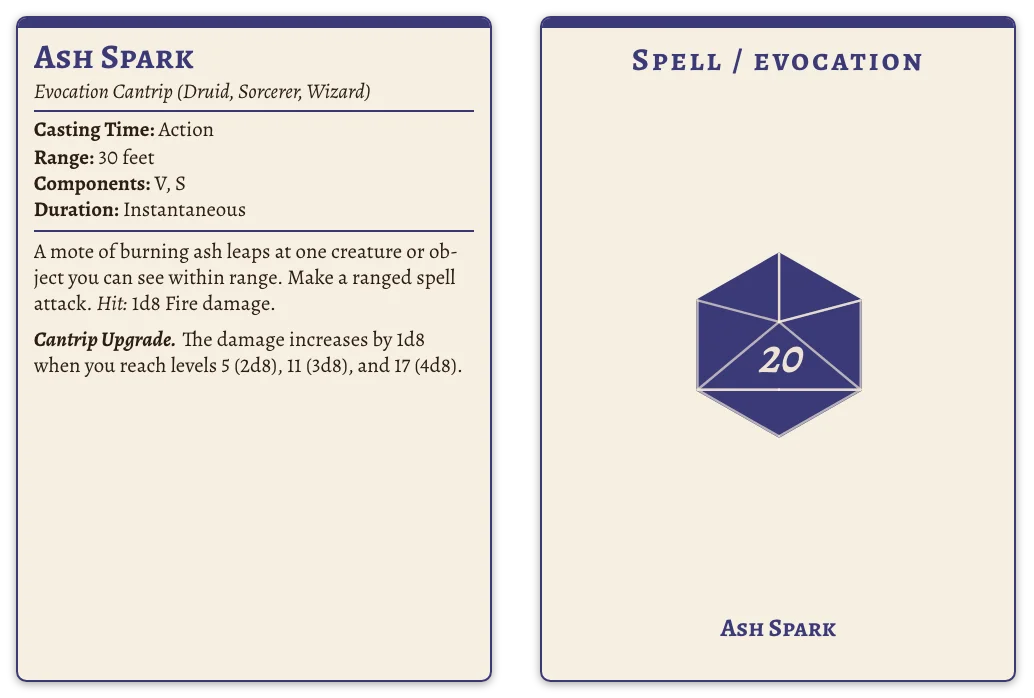
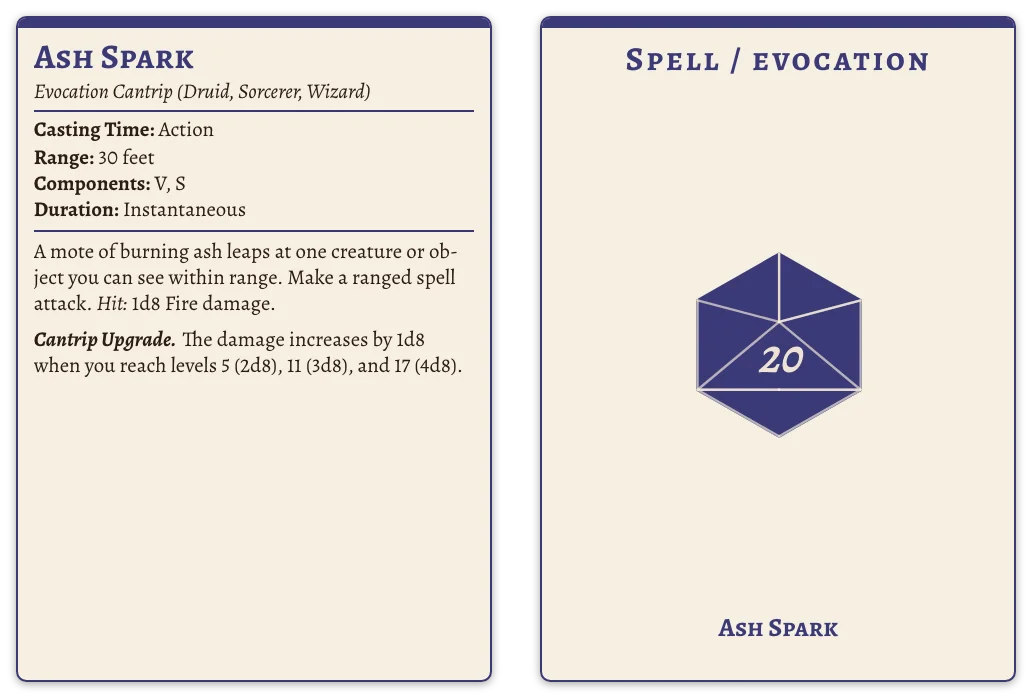
5e_2014, 5e_2024: wrap the back's label and name at full size
The label and the name on the back were title-scaled. A wrapped line
of the display face reaches a pixel or two past its own box, so the
scaler read every second line as overflow and shrank the text until
it fit on one line: the size then followed the length of the text,
and two cards of a deck came out at different sizes. The name sat at
the title floor on every card.

Both now keep their declared size and wrap; a word wider than the line
breaks. Retakes the 5e card pictures.

Changed region(s): [[0.588, 0.0602, 0.8975, 0.1203], [0.6809, 0.8725, 0.8046, 0.9327]]

diff --git a/tests/fixtures/5e_2014/Cinder-Hound.back.html b/tests/fixtures/5e_2014/Cinder-Hound.back.html
@@ -1,9 +1,9 @@
 <div class="card-root card-back dd creature-card creature-back" style="--card-width: 88.9mm; --card-height: 127mm;" lang="en">
   <div class="dd-bar"></div>
-  <div class="dd-back-label"><span class="text-scalable">beast</span></div>
+  <div class="dd-back-label">beast</div>
   <div class="dd-back-picture">
[1 lines of base64/hex data omitted]
   </div>
-  <div class="dd-back-name"><span class="text-scalable">Cinder Hound</span></div>
+  <div class="dd-back-name">Cinder Hound</div>
   <div class="dd-bar"></div>
 </div>

diff --git a/tests/fixtures/5e_2024/Cinder-Hound.back.html b/tests/fixtures/5e_2024/Cinder-Hound.back.html
@@ -1,8 +1,8 @@
 <div class="card-root card-back ff creature-card creature-back" style="--card-width: 88.9mm; --card-height: 127mm;" lang="en">
   <div class="ff-band"></div>
-  <div class="ff-back-label"><span class="text-scalable">Monstrosity</span></div>
+  <div class="ff-back-label">Monstrosity</div>
   <div class="ff-back-picture">
[1 lines of base64/hex data omitted]
   </div>
-  <div class="ff-back-name"><span class="text-scalable">Cinder Hound</span></div>
+  <div class="ff-back-name">Cinder Hound</div>
 </div>

diff --git a/tests/fixtures/5e_2014/Toll-Warden.back.html b/tests/fixtures/5e_2014/Toll-Warden.back.html
@@ -1,9 +1,9 @@
 <div class="card-root card-back dd creature-card creature-back" style="--card-width: 88.9mm; --card-height: 127mm;" lang="en">
   <div class="dd-bar"></div>
-  <div class="dd-back-label"><span class="text-scalable">NPC</span></div>
+  <div class="dd-back-label">NPC</div>
   <div class="dd-back-picture">
[1 lines of base64/hex data omitted]
   </div>
-  <div class="dd-back-name"><span class="text-scalable">Toll Warden</span></div>
+  <div class="dd-back-name">Toll Warden</div>
   <div class="dd-bar"></div>
 </div>

diff --git a/tests/fixtures/5e_2014/Ember-Step.back.html b/tests/fixtures/5e_2014/Ember-Step.back.html
@@ -1,6 +1,6 @@
 <div class="card-root card-back dd generic-card generic-back" style="--card-width: 63mm; --card-height: 88mm;" lang="en">
   <div class="dd-bar"></div>
-  <div class="dd-back-label"><span class="text-scalable">Feature / <span class="dd-back-origin">Pyromancer</span></span></div>
+  <div class="dd-back-label">Feature / <span class="dd-back-origin">Pyromancer</span></div>
   <div class="dd-back-picture">
     <div class="dd-d20"><!-- A twenty-sided die as a flat silhouette: the hexagonal outline of an
      icosahedron seen face-on, its visible facets drawn in the paper
@@ -27,6 +27,6 @@
         fill="rgba(253,241,220,0.92)">20</text>
 </svg></div>
   </div>
-  <div class="dd-back-name"><span class="text-scalable">Ember Step</span></div>
+  <div class="dd-back-name">Ember Step</div>
   <div class="dd-bar"></div>
 </div>

diff --git a/tests/fixtures/5e_2014/Aschezeichen.back.html b/tests/fixtures/5e_2014/Aschezeichen.back.html
@@ -1,6 +1,6 @@
 <div class="card-root card-back dd spell-card spell-back" style="--card-width: 63mm; --card-height: 88mm;" lang="de">
   <div class="dd-bar"></div>
-  <div class="dd-back-label"><span class="text-scalable">Zauber / <span class="dd-back-origin">Erkenntnis</span></span></div>
+  <div class="dd-back-label">Zauber / <span class="dd-back-origin">Erkenntnis</span></div>
   <div class="dd-back-picture">
     <div class="dd-d20"><!-- A twenty-sided die as a flat silhouette: the hexagonal outline of an
      icosahedron seen face-on, its visible facets drawn in the paper
@@ -27,6 +27,6 @@
         fill="rgba(253,241,220,0.92)">20</text>
 </svg></div>
   </div>
-  <div class="dd-back-name"><span class="text-scalable">Aschezeichen</span></div>
+  <div class="dd-back-name">Aschezeichen</div>
   <div class="dd-bar"></div>
 </div>

diff --git a/tests/fixtures/5e_2014/Glutschritt.back.html b/tests/fixtures/5e_2014/Glutschritt.back.html
@@ -1,6 +1,6 @@
 <div class="card-root card-back dd generic-card generic-back" style="--card-width: 63mm; --card-height: 88mm;" lang="de">
   <div class="dd-bar"></div>
-  <div class="dd-back-label"><span class="text-scalable">Merkmal / <span class="dd-back-origin">Pyromant</span></span></div>
+  <div class="dd-back-label">Merkmal / <span class="dd-back-origin">Pyromant</span></div>
   <div class="dd-back-picture">
     <div class="dd-d20"><!-- A twenty-sided die as a flat silhouette: the hexagonal outline of an
      icosahedron seen face-on, its visible facets drawn in the paper
@@ -27,6 +27,6 @@
         fill="rgba(253,241,220,0.92)">20</text>
 </svg></div>
   </div>
-  <div class="dd-back-name"><span class="text-scalable">Glutschritt</span></div>
+  <div class="dd-back-name">Glutschritt</div>
   <div class="dd-bar"></div>
 </div>

diff --git a/tests/fixtures/5e_2014/Ember-Lance.back.html b/tests/fixtures/5e_2014/Ember-Lance.back.html
@@ -1,6 +1,6 @@
 <div class="card-root card-back dd spell-card spell-back" style="--card-width: 63mm; --card-height: 88mm;" lang="en">
   <div class="dd-bar"></div>
-  <div class="dd-back-label"><span class="text-scalable">Spell / <span class="dd-back-origin">evocation</span></span></div>
+  <div class="dd-back-label">Spell / <span class="dd-back-origin">evocation</span></div>
   <div class="dd-back-picture">
     <div class="dd-d20"><!-- A twenty-sided die as a flat silhouette: the hexagonal outline of an
      icosahedron seen face-on, its visible facets drawn in the paper
@@ -27,6 +27,6 @@
         fill="rgba(253,241,220,0.92)">20</text>
 </svg></div>
   </div>
-  <div class="dd-back-name"><span class="text-scalable">Ember Lance</span></div>
+  <div class="dd-back-name">Ember Lance</div>
   <div class="dd-bar"></div>
 </div>

diff --git a/tests/fixtures/5e_2024/Ember-Step.back.html b/tests/fixtures/5e_2024/Ember-Step.back.html
@@ -1,6 +1,6 @@
 <div class="card-root card-back ff generic-card generic-back" style="--card-width: 63mm; --card-height: 88mm;" lang="en">
   <div class="ff-band"></div>
-  <div class="ff-back-label"><span class="text-scalable">Feature / <span class="ff-back-origin">Pyromancer</span></span></div>
+  <div class="ff-back-label">Feature / <span class="ff-back-origin">Pyromancer</span></div>
   <div class="ff-back-picture">
     <div class="ff-d20"><!-- A twenty-sided die as a flat silhouette: the hexagonal outline of an
      icosahedron seen face-on, its visible facets drawn in the paper
@@ -27,5 +27,5 @@
         fill="rgba(253,241,220,0.92)">20</text>
 </svg></div>
   </div>
-  <div class="ff-back-name"><span class="text-scalable">Ember Step</span></div>
+  <div class="ff-back-name">Ember Step</div>
 </div>

diff --git a/tests/fixtures/5e_2024/Aschezeichen.back.html b/tests/fixtures/5e_2024/Aschezeichen.back.html
@@ -1,6 +1,6 @@
 <div class="card-root card-back ff spell-card spell-back" style="--card-width: 63mm; --card-height: 88mm;" lang="de">
   <div class="ff-band"></div>
-  <div class="ff-back-label"><span class="text-scalable">Zauber / <span class="ff-back-origin">Erkenntnis</span></span></div>
+  <div class="ff-back-label">Zauber / <span class="ff-back-origin">Erkenntnis</span></div>
   <div class="ff-back-picture">
     <div class="ff-d20"><!-- A twenty-sided die as a flat silhouette: the hexagonal outline of an
      icosahedron seen face-on, its visible facets drawn in the paper
@@ -27,5 +27,5 @@
         fill="rgba(253,241,220,0.92)">20</text>
 </svg></div>
   </div>
-  <div class="ff-back-name"><span class="text-scalable">Aschezeichen</span></div>
+  <div class="ff-back-name">Aschezeichen</div>
 </div>

diff --git a/tests/fixtures/5e_2024/Ember-Lance.back.html b/tests/fixtures/5e_2024/Ember-Lance.back.html
@@ -1,6 +1,6 @@
 <div class="card-root card-back ff spell-card spell-back" style="--card-width: 63mm; --card-height: 88mm;" lang="en">
   <div class="ff-band"></div>
-  <div class="ff-back-label"><span class="text-scalable">Spell / <span class="ff-back-origin">Evocation</span></span></div>
+  <div class="ff-back-label">Spell / <span class="ff-back-origin">Evocation</span></div>
   <div class="ff-back-picture">
     <div class="ff-d20"><!-- A twenty-sided die as a flat silhouette: the hexagonal outline of an
      icosahedron seen face-on, its visible facets drawn in the paper
@@ -27,5 +27,5 @@
         fill="rgba(253,241,220,0.92)">20</text>
 </svg></div>
   </div>
-  <div class="ff-back-name"><span class="text-scalable">Ember Lance</span></div>
+  <div class="ff-back-name">Ember Lance</div>
 </div>

diff --git a/tests/fixtures/5e_2024/Ash-Spark.back.html b/tests/fixtures/5e_2024/Ash-Spark.back.html
@@ -1,6 +1,6 @@
 <div class="card-root card-back ff spell-card spell-back" style="--card-width: 63mm; --card-height: 88mm;" lang="en">
   <div class="ff-band"></div>
-  <div class="ff-back-label"><span class="text-scalable">Spell / <span class="ff-back-origin">evocation</span></span></div>
+  <div class="ff-back-label">Spell / <span class="ff-back-origin">evocation</span></div>
   <div class="ff-back-picture">
     <div class="ff-d20"><!-- A twenty-sided die as a flat silhouette: the hexagonal outline of an
      icosahedron seen face-on, its visible facets drawn in the paper
@@ -27,5 +27,5 @@
         fill="rgba(253,241,220,0.92)">20</text>
 </svg></div>
   </div>
-  <div class="ff-back-name"><span class="text-scalable">Ash Spark</span></div>
+  <div class="ff-back-name">Ash Spark</div>
 </div>

diff --git a/tests/fixtures/5e_2014/Wardens-Brand.back.html b/tests/fixtures/5e_2014/Wardens-Brand.back.html
@@ -1,6 +1,6 @@
 <div class="card-root card-back dd item-card item-back" style="--card-width: 63mm; --card-height: 88mm;" lang="en">
   <div class="dd-bar"></div>
-  <div class="dd-back-label"><span class="text-scalable">Weapon (longsword)</span></div>
+  <div class="dd-back-label">Weapon (longsword)</div>
   <div class="dd-back-picture">
     <div class="dd-d20"><!-- A twenty-sided die as a flat silhouette: the hexagonal outline of an
      icosahedron seen face-on, its visible facets drawn in the paper
@@ -27,6 +27,6 @@
         fill="rgba(253,241,220,0.92)">20</text>
 </svg></div>
   </div>
-  <div class="dd-back-name"><span class="text-scalable">Warden&#39;s Brand</span></div>
+  <div class="dd-back-name">Warden&#39;s Brand</div>
   <div class="dd-bar"></div>
 </div>
